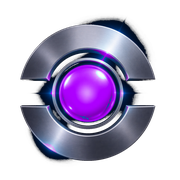
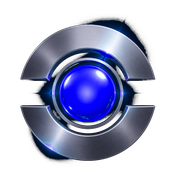
Apply the blue-violet layout across every page.

diff --git a/src/routes/index.tsx b/src/routes/index.tsx
@@ -8,213 +8,130 @@ export const Route = createFileRoute("/")({
   head: () => ({
     meta: [
       { title: "EXIOR | Enterprise Transformation Plan — $499" },
-      {
-        name: "description",
-        content:
-          "A personalized enterprise transformation plan, target architecture, implementation roadmap and EXIOR Space. $499. Delivered in 14 days after complete intake. Technical deployment is separate.",
-      },
+      { name: "description", content: "A personalized enterprise transformation plan, target architecture, implementation roadmap and EXIOR Space. $499. Delivered in 14 days after complete intake." },
     ],
   }),
   component: Home,
 });
 
-const LAYERS = [
-  { id: "org", name: "Organization", line: "Define who owns each capability, decision, and handoff.", detail: "Target functions, accountabilities, interfaces and decision cadence.", ex: "Meridian: Commercial owns the quote. Production owns the schedule." },
-  { id: "proc", name: "Processes", line: "Redesign how work flows from demand to delivery.", detail: "Inputs, exceptions, bottlenecks, rules and target workflows.", ex: "Meridian: capacity is checked before a delivery date is promised." },
-  { id: "data", name: "Data", line: "Give critical business information a reliable structure.", detail: "Authoritative sources, business objects, ownership and data flows.", ex: "Meridian: one owner each for order, stock and price." },
-  { id: "sys", name: "Systems", line: "Connect the technology your operations depend on.", detail: "Applications to retain, integrate, modernize or retire.", ex: "Meridian: CRM, ERP, warehouse and ledger stay. The missing piece is a capacity signal." },
-  { id: "ai", name: "AI Agents", line: "Specify intelligent capabilities where they make operational sense.", detail: "Selected use cases, authorized tools, verification and human approval.", ex: "Meridian: a quote-draft agent reads. A person sets the price." },
-  { id: "sec", name: "Security", line: "Build control and traceability into the design.", detail: "Permissions, residency requirements, activity logs and intervention rules.", ex: "Meridian: least privilege, a log, a stop, and a named place for the data." },
-] as const;
+const ICONS = [
+  { name: "SAP", src: "/logos/sap.svg" },
+  { name: "Salesforce", src: "/logos/salesforce.svg" },
+  { name: "HubSpot", src: "/logos/hubspot.svg" },
+  { name: "n8n", src: "/logos/n8n.svg" },
+  { name: "MCP", src: "/logos/mcp.svg" },
+];
 
-const INCLUDED = ["Enterprise analysis", "Target architecture", "Process priorities", "Agent specifications", "Security requirements", "Prioritized roadmap", "Personalized EXIOR Space"];
-const SEPARATE = ["Software development", "System integration", "Data migration", "Live agent deployment", "Ongoing operations", "Certification or legal advice"];
+const CASES = [
+  { img: "/visuals/case-finance.jpg", title: "Finance", text: "Name the owner of cash. Invoice follows the released shipment, not a quote that may not match." },
+  { img: "/visuals/case-ops.jpg", title: "Operations", text: "Capacity is checked before a date is promised. Production is the 11-day constraint." },
+  { img: "/visuals/case-sales.jpg", title: "Sales", text: "The quote is drafted from named sources. A person still sets the price and the lead time." },
+  { img: "/visuals/case-direction.jpg", title: "Leadership", text: "One architecture for organization, process, data, systems and agents. You decide what to execute." },
+];
 
 function Home() {
-  const [layer, setLayer] = useState(4);
-  const [side, setSide] = useState<"current" | "target">("current");
-  const L = LAYERS[layer];
-
+  const [open, setOpen] = useState(0);
   return (
     <Shell>
       <main>
-        <section className="mx-auto grid max-w-6xl items-start gap-8 px-5 pb-12 pt-8 lg:grid-cols-[0.84fr_1.16fr] lg:pt-10">
+        <section className="mx-auto grid max-w-6xl items-center gap-10 px-5 py-16 lg:grid-cols-[1.05fr_0.95fr] lg:py-24">
           <div>
             <p className="text-[11px] uppercase tracking-[0.18em] text-muted">EXIOR / ENTERPRISE TRANSFORMATION</p>
-            <h1 className="mt-3 text-[2rem] font-medium leading-[1.05] tracking-[-0.045em] md:text-5xl">Transform your enterprise. Start with the blueprint.</h1>
-            <p className="mt-4 max-w-xl text-base leading-relaxed text-muted md:text-lg">
-              EXIOR designs the next version of your business — its organization, processes, systems, data, and AI capabilities — as one connected architecture. Get a personalized plan showing exactly what to change, how it fits together, and where to begin.
-            </p>
+            <h1 className="mt-4 text-4xl font-medium leading-[1.02] tracking-[-0.045em] md:text-6xl">Transform your enterprise. Start with the blueprint.</h1>
+            <p className="mt-5 max-w-xl text-lg leading-relaxed text-muted">EXIOR designs the next version of your business — its organization, processes, systems, data, and AI capabilities — as one connected architecture.</p>
             <p className="mt-4 text-sm">$499 · Personalized plan · Delivered in 14 days after complete intake</p>
-            <div className="mt-4 flex flex-col gap-3 sm:flex-row">
-              <Link to="/offre" className="inline-flex items-center justify-center rounded-full bg-accent-fill px-5 py-3 text-sm text-accent-ink">
-                Get My Transformation Plan — $499
-              </Link>
-              <a href="#espace" className="inline-flex items-center justify-center rounded-full border border-line px-5 py-3 text-sm text-muted">
-                Explore a Sample Blueprint
-              </a>
+            <div className="mt-6 flex flex-col gap-3 sm:flex-row">
+              <Link to="/offre" className="inline-flex items-center justify-center rounded-full bg-accent-fill px-5 py-3 text-sm font-medium text-white">Get My Transformation Plan — $499</Link>
+              <a href="#espace" className="inline-flex items-center justify-center rounded-full border border-line px-5 py-3 text-sm text-muted">Explore a Sample Blueprint</a>
             </div>
-            <p className="mt-3 text-xs text-faint">Business analysis · Target architecture · Prioritized roadmap · EXIOR Space</p>
+            <p className="mt-4 text-xs text-faint">Confidential · Built around your business · The plan is designed. The systems are not deployed for $499.</p>
           </div>
-          <figure>
-            <div className="overflow-hidden rounded-2xl border border-line bg-white">
-              <img src="/visuals/schema-before-after.jpg" alt="Current process versus target process. The quote waits on capacity. A person sets price and date." className="w-full object-contain" />
+          <img src="/visuals/hero-exec.jpg" alt="A conversation about the operating model" className="aspect-[4/3] w-full rounded-3xl object-cover" />
+        </section>
+
+        <section className="border-y border-line">
+          <div className="mx-auto grid max-w-6xl items-center gap-8 px-5 py-16 lg:grid-cols-[1.15fr_0.85fr]">
+            <img src="/visuals/laptop.jpg" alt="EXIOR Space on a laptop" className="w-full rounded-3xl object-cover" />
+            <div className="rounded-3xl border border-line bg-bg-2 p-6">
+              <h2 className="text-3xl font-medium tracking-tight">See the plan before you buy the build.</h2>
+              <p className="mt-3 text-muted">Map, architecture, roadmap and the decisions still open. Meridian is an illustrative example, not a client.</p>
+              <ul className="mt-6 divide-y divide-line border-y border-line text-sm">
+                {["Enterprise analysis", "Target architecture", "Agent specifications", "Prioritized roadmap"].map((t) => (
+                  <li key={t} className="py-3">{t}</li>
+                ))}
+              </ul>
+              <Link to="/offre" className="mt-6 inline-flex rounded-full bg-accent-fill px-5 py-3 text-sm font-medium text-white">Get My Transformation Plan — $499</Link>
             </div>
-            <p className="mt-2 text-xs text-faint">Meridian — Illustrative Example. Production is the 11-day constraint.</p>
-          </figure>
+          </div>
+          <div className="mx-auto grid max-w-6xl gap-6 px-5 pb-16 md:grid-cols-3">
+            {[["Understand", "How the company actually runs."], ["Specify", "Who owns the decision, and what an agent may not do."], ["Sequence", "What changes first, and what waits."]].map(([t, d]) => (
+              <article key={t} className="border-t border-line pt-5">
+                <h3 className="text-lg">{t}</h3>
+                <p className="mt-2 text-sm text-muted">{d}</p>
+              </article>
+            ))}
+          </div>
+        </section>
+
+        <section className="mx-auto max-w-6xl px-5 py-16">
+          <div className="rounded-3xl bg-[linear-gradient(135deg,#f3d7c4,#e7d4f2_55%,#c9d4ff)] px-6 py-10">
+            <div className="flex flex-wrap items-center justify-center gap-4">
+              {ICONS.map((icon) => (
+                <span key={icon.name} className="grid size-14 place-items-center rounded-full bg-white shadow-sm">
+                  <img src={icon.src} alt={icon.name} className="h-6 w-8 object-contain" style={{ filter: "invert(0)" }} />
+                </span>
+              ))}
+            </div>
+            <p className="mt-6 text-center text-sm text-[#1c1c1c]">Named systems a plan can specify. Not partnerships. Not deployed for $499.</p>
+          </div>
         </section>
 
         <section className="border-y border-line">
           <div className="mx-auto max-w-6xl px-5 py-16 md:py-24">
-            <p className="text-[11px] uppercase tracking-[0.18em] text-muted">THE COST OF DISCONNECTED DECISIONS</p>
-            <h2 className="mt-3 max-w-3xl text-3xl font-medium tracking-[-0.03em] md:text-5xl">Every new tool changes the business around it.</h2>
-            <p className="mt-5 max-w-2xl text-lg leading-relaxed text-muted">
-              A new platform affects how people work. A new automation changes a process. An AI agent relies on data, permissions, and decisions that may not be ready. When these changes happen independently, complexity grows faster than the business becomes stronger.
-            </p>
-            <p className="mt-3 text-sm">The advantage comes from designing how everything works together.</p>
-            <figure className="mt-8 overflow-hidden rounded-2xl border border-line bg-white">
-              <img src="/visuals/schema-process.jpg" alt="Inputs, process and outputs. Capacity is checked before the quote. A person sets price and date." className="w-full object-contain" />
-            </figure>
-            <div className="mt-6 flex gap-2 md:hidden">
-              <button type="button" onClick={() => setSide("current")} className={side === "current" ? "rounded-full border border-accent-fill px-3 py-1 text-sm" : "rounded-full border border-line px-3 py-1 text-sm text-muted"}>Current</button>
-              <button type="button" onClick={() => setSide("target")} className={side === "target" ? "rounded-full border border-accent-fill px-3 py-1 text-sm" : "rounded-full border border-line px-3 py-1 text-sm text-muted"}>Target</button>
-            </div>
-            <div className="mt-6 grid gap-px bg-line md:grid-cols-2">
-              <article className={side === "target" ? "hidden bg-bg p-6 md:block" : "bg-bg p-6"}>
-                <p className="text-[11px] uppercase tracking-[0.16em] text-faint">Current enterprise</p>
-                <h3 className="mt-3 text-xl">Disconnected operations. Delayed decisions.</h3>
-                <ul className="mt-4 space-y-2 text-sm text-muted">
-                  <li>Customer promises made before capacity is visible.</li>
-                  <li>Critical data distributed across systems.</li>
-                  <li>Manual handoffs slow execution.</li>
-                </ul>
-                <p className="mt-4 text-xs text-faint">Today: fragmented responsibilities, late signals, manual handoffs.</p>
-              </article>
-              <article className={side === "current" ? "hidden bg-bg p-6 md:block" : "bg-bg p-6"}>
-                <p className="text-[11px] uppercase tracking-[0.16em] text-faint">Target architecture</p>
-                <h3 className="mt-3 text-xl">Connected information. Clear decision rights.</h3>
-                <ul className="mt-4 space-y-2 text-sm text-muted">
-                  <li>Capacity informs customer commitments.</li>
-                  <li>Business objects have defined owners and sources.</li>
-                  <li>People, systems and agents operate within shared rules.</li>
-                </ul>
-                <p className="mt-4 text-xs text-faint">Target: shared processes, clear ownership, governed intelligence.</p>
-              </article>
-            </div>
-            <p className="mt-4 text-xs text-faint">Illustrative operating model: Meridian</p>
-            <a href="#architecture" className="mt-4 inline-flex text-sm">See the target architecture</a>
-          </div>
-        </section>
-
-        <section id="architecture" className="border-b border-line">
-          <div className="mx-auto grid max-w-6xl gap-10 px-5 py-16 md:grid-cols-[0.36fr_0.64fr] md:py-24">
-            <div>
-              <p className="text-[11px] uppercase tracking-[0.18em] text-muted">FROM STRATEGY TO EXECUTION</p>
-              <h2 className="mt-3 text-3xl font-medium tracking-[-0.03em] md:text-4xl">Design the whole enterprise, not isolated improvements.</h2>
-              <p className="mt-5 leading-relaxed text-muted">
-                Your future operating model, processes, information, applications, AI agents, and controls are interdependent. EXIOR defines the relationships so each planned change strengthens the architecture rather than creating another exception.
-              </p>
-              <ul className="mt-6 space-y-2">
-                {LAYERS.map((l, i) => (
-                  <li key={l.id}>
-                    <button type="button" onClick={() => setLayer(i)} className={i === layer ? "w-full rounded-xl border border-accent-fill px-3 py-2 text-left text-sm" : "w-full rounded-xl border border-line px-3 py-2 text-left text-sm text-muted"}>
-                      0{i + 1} {l.name}
-                    </button>
-                  </li>
-                ))}
-              </ul>
-              <p className="mt-5 text-sm">Know what stays. What connects. What changes first.</p>
-              <Link to="/method" className="mt-4 inline-flex text-sm">Explore How It Works</Link>
-            </div>
-            <div className="rounded-2xl border border-line bg-bg-2 p-4 md:p-6">
-              <FlowBoard />
-              <p className="mt-4 text-xs text-faint">0{layer + 1} · Meridian — Illustrative Example</p>
-              <h3 className="mt-2 text-2xl">{L.name}</h3>
-              <p className="mt-4 text-lg">{L.line}</p>
-              <p className="mt-3 text-muted">{L.detail}</p>
-              <p className="mt-4 text-sm">{L.ex}</p>
-              {L.id === "ai" ? <div className="mt-6"><QuoteHarness /></div> : null}
-            </div>
+            <h2 className="max-w-3xl text-4xl font-medium tracking-[-0.04em] md:text-5xl">One architecture for each part of the business.</h2>
+            <ul className="mt-10 divide-y divide-line">
+              {CASES.map((c, i) => (
+                <li key={c.title}>
+                  <button type="button" onClick={() => setOpen(i)} className="grid w-full items-center gap-6 py-6 text-left md:grid-cols-[16rem_1fr_auto]">
+                    <img src={c.img} alt="" className="aspect-[16/9] w-full rounded-2xl object-cover" />
+                    <div>
+                      <h3 className="text-2xl">{c.title}</h3>
+                      <p className="mt-2 text-muted">{c.text}</p>
+                    </div>
+                    <span className="text-accent-fill">→</span>
+                  </button>
+                </li>
+              ))}
+            </ul>
           </div>
         </section>
 
         <section id="espace" className="border-b border-line">
           <div className="mx-auto max-w-6xl px-5 py-16 md:py-24">
-            <p className="text-[11px] uppercase tracking-[0.18em] text-muted">YOUR EXIOR SPACE</p>
-            <h2 className="mt-3 max-w-3xl text-3xl font-medium tracking-[-0.03em] md:text-5xl">See the entire transformation. Understand every decision.</h2>
-            <p className="mt-5 max-w-2xl text-muted">Your EXIOR Space brings the enterprise map, target architecture, implementation priorities and open decisions together.</p>
-            <figure className="mt-8 overflow-hidden rounded-2xl border border-line bg-white">
-              <img src="/visuals/schema-agent.jpg" alt="Quote draft agent: reader, drafter, human approver. May read. Draft only. May not set price or release a shipment." className="w-full object-contain" />
-            </figure>
-            <div className="mt-8">
-              <SpaceStage />
-            </div>
+            <h2 className="max-w-3xl text-4xl font-medium tracking-[-0.04em]">See the entire transformation. Understand every decision.</h2>
+            <div className="mt-8"><FlowBoard /></div>
+            <div className="mt-8"><SpaceStage /></div>
+            <div className="mt-8"><QuoteHarness /></div>
           </div>
         </section>
 
-        <section id="deliverables" className="border-b border-line">
-          <div className="mx-auto max-w-6xl px-5 py-16 md:py-24">
-            <p className="text-[11px] uppercase tracking-[0.18em] text-muted">SEE WHAT YOU'RE BUYING</p>
-            <h2 className="mt-3 max-w-3xl text-3xl font-medium tracking-[-0.03em] md:text-5xl">Your company's future architecture. Made visible.</h2>
-            <div className="mt-8 grid gap-3 md:grid-cols-12">
-              <article className="rounded-2xl border border-line p-5 md:col-span-7">
-                <h3 className="text-lg">Enterprise analysis</h3>
-                <p className="mt-2 text-sm text-muted">How the company actually runs. Meridian — Illustrative Example: quotes leave before capacity is known.</p>
-              </article>
-              <article className="rounded-2xl border border-line p-5 md:col-span-5">
-                <h3 className="text-lg">Target architecture</h3>
-                <p className="mt-2 text-sm text-muted">Organization, processes, data, systems and AI in one design.</p>
-              </article>
-              <article className="rounded-2xl border border-line p-5 md:col-span-4"><h3>Process priorities</h3><p className="mt-2 text-sm text-muted">The 11-day scheduling constraint, before any new platform.</p></article>
-              <article className="rounded-2xl border border-line p-5 md:col-span-4"><h3>Data ownership</h3><p className="mt-2 text-sm text-muted">One source for order, stock, price and cash.</p></article>
-              <article className="rounded-2xl border border-line p-5 md:col-span-4"><h3>Roadmap</h3><p className="mt-2 text-sm text-muted">Foundation, connect, govern, then a human gate before any pilot.</p></article>
-              <article className="rounded-2xl border border-line p-5 md:col-span-7">
-                <h3 className="text-lg">Agent specifications</h3>
-                <div className="mt-4"><QuoteHarness compact /></div>
-              </article>
-              <article className="rounded-2xl border border-line p-5 md:col-span-5">
-                <h3 className="text-lg">Security requirements</h3>
-                <p className="mt-2 text-sm text-muted">Least privilege, residency, an activity log, and a stop if the agent tries to write.</p>
-                <h3 className="mt-6 text-lg">EXIOR Space</h3>
-                <p className="mt-2 text-sm text-muted">The plan, in one place your team can reopen.</p>
-              </article>
-            </div>
-          </div>
-        </section>
-
-        <section id="pricing" className="border-b border-line">
-          <div className="mx-auto grid max-w-6xl items-start gap-10 px-5 py-16 md:grid-cols-[1fr_0.9fr] md:py-24">
+        <section className="border-b border-line">
+          <div className="mx-auto grid max-w-6xl items-center gap-10 px-5 py-16 md:grid-cols-[1fr_0.8fr] md:py-24">
             <div>
               <p className="text-[11px] uppercase tracking-[0.18em] text-muted">THE PLAN</p>
-              <h2 className="mt-3 text-3xl font-medium tracking-[-0.03em] md:text-5xl">One plan. One price. A clear next step.</h2>
-              <div className="mt-8 grid gap-6 sm:grid-cols-2">
-                <div>
-                  <p className="text-xs uppercase tracking-widest text-faint">Included</p>
-                  <ul className="mt-3 space-y-2 text-sm">{INCLUDED.map((t) => <li key={t}>{t}</li>)}</ul>
-                </div>
-                <div>
-                  <p className="text-xs uppercase tracking-widest text-faint">Separate</p>
-                  <ul className="mt-3 space-y-2 text-sm text-muted">{SEPARATE.map((t) => <li key={t}>{t}</li>)}</ul>
-                </div>
-              </div>
-            </div>
-            <div className="rounded-2xl border border-line bg-bg-2 p-6">
-              <p className="text-5xl font-medium tracking-tight">$499</p>
-              <p className="mt-2 text-sm text-muted">One-time · Delivered in 14 days after your complete dossier</p>
-              <Link to="/offre" className="mt-6 inline-flex rounded-full bg-accent-fill px-5 py-3 text-sm text-accent-ink">
-                Get My Transformation Plan — $499
-              </Link>
+              <h2 className="mt-3 text-4xl font-medium tracking-tight">One plan. One price.</h2>
+              <p className="mt-4 text-5xl font-medium">$499</p>
+              <p className="mt-2 text-muted">One-time · Delivered in 14 days after your complete dossier</p>
+              <Link to="/offre" className="mt-6 inline-flex rounded-full bg-accent-fill px-5 py-3 text-sm font-medium text-white">Get My Transformation Plan — $499</Link>
               <p className="mt-4 text-sm">The plan is designed. The systems are not deployed for $499.</p>
             </div>
+            <img src="/visuals/office.jpg" alt="A room for the decision" className="aspect-[16/10] w-full rounded-3xl object-cover" />
           </div>
         </section>
 
-        <section className="mx-auto max-w-3xl px-5 py-24 text-center md:py-32">
-          <h2 className="text-4xl font-medium tracking-[-0.04em] md:text-5xl">Start with the architecture that connects the decisions, systems, and capabilities behind your transformation.</h2>
-          <Link to="/offre" className="mt-8 inline-flex rounded-full bg-accent-fill px-5 py-3 text-sm text-accent-ink">
-            Get My Transformation Plan — $499
-          </Link>
-          <p className="mt-4 text-sm text-muted">Your plan. Your priorities. Your decision.</p>
+        <section className="mx-auto max-w-3xl px-5 py-24 text-center">
+          <h2 className="text-4xl font-medium tracking-[-0.04em]">Start with the architecture that connects the decisions.</h2>
+          <Link to="/offre" className="mt-8 inline-flex rounded-full bg-accent-fill px-5 py-3 text-sm font-medium text-white">Get My Transformation Plan — $499</Link>
         </section>
       </main>
     </Shell>

diff --git a/src/routes/method.tsx b/src/routes/method.tsx
@@ -35,23 +35,16 @@ function Method() {
   return (
     <Shell>
       <main>
-        <section className="mx-auto grid max-w-6xl items-end gap-10 px-5 py-16 md:grid-cols-[1.4fr_0.6fr] md:py-24">
+        <section className="mx-auto grid max-w-6xl items-center gap-10 px-5 py-16 md:grid-cols-[1.1fr_0.9fr] md:py-24">
           <div>
             <p className="text-[11px] uppercase tracking-[0.18em] text-muted">THE EXIOR METHOD</p>
             <h1 className="mt-4 text-4xl font-medium tracking-[-0.04em] md:text-6xl">A rigorous method. A blueprint built around your business.</h1>
             <p className="mt-5 max-w-2xl text-lg leading-relaxed text-muted">
-              The most consequential transformation decisions happen before implementation. EXIOR connects business analysis, organizational design, systems architecture, and AI planning into one structured engagement — so every initiative has a purpose, a dependency, and a defined place in your future enterprise.
+              The most consequential transformation decisions happen before implementation. EXIOR connects business analysis, organizational design, systems architecture, and AI planning into one structured engagement.
             </p>
-            <p className="mt-4 text-sm">An actual business dossier. An integrated target architecture. A prioritized execution roadmap.</p>
-            <Link to="/offre" className="mt-6 inline-flex rounded-full bg-accent-fill px-5 py-3 text-sm text-accent-ink">Get My Transformation Plan — $499</Link>
-            <p className="mt-3 text-xs text-faint">Delivered in 14 days after your complete dossier is received.</p>
+            <Link to="/offre" className="mt-6 inline-flex rounded-full bg-accent-fill px-5 py-3 text-sm font-medium text-white">Get My Transformation Plan — $499</Link>
           </div>
-          <ol className="divide-y divide-line border-y border-line text-sm">
-            <li className="py-4">1 · Dossier</li>
-            <li className="py-4">2 · Map the break</li>
-            <li className="py-4">3 · Specify the agent boundary</li>
-            <li className="py-4">4 · Sequence the decisions</li>
-          </ol>
+          <img src="/visuals/laptop.jpg" alt="The plan, opened" className="aspect-[4/3] w-full rounded-3xl object-cover" />
         </section>
 
         <section className="border-y border-line">

diff --git a/src/routes/offre.tsx b/src/routes/offre.tsx
@@ -157,18 +157,15 @@ function Offre() {
   return (
     <Shell>
       <main>
-        <section className="mx-auto max-w-6xl px-5 py-16 md:py-20">
-          <Kicker>EXIOR TRANSFORMATION PLAN</Kicker>
-          <h1 className="mt-4 max-w-3xl text-4xl font-medium tracking-[-0.03em] md:text-6xl">
-            Your next enterprise. Designed in 14 days.
-          </h1>
-          <p className="mt-6 max-w-2xl text-lg leading-relaxed text-muted">
-            A personalized transformation plan. $499, once. Delivered in 14 days after the complete dossier. Technical deployment is separate.
-          </p>
-          <p className="mt-6 text-sm">The plan is designed. The systems are not deployed for $499.</p>
-          <a href="#profile" className="mt-6 inline-flex rounded-full bg-accent-fill px-5 py-3 text-sm text-accent-ink">
-            Get My Transformation Plan — $499
-          </a>
+        <section className="mx-auto grid max-w-6xl items-center gap-10 px-5 py-16 md:grid-cols-[1.1fr_0.9fr] md:py-20">
+          <div>
+            <Kicker>EXIOR TRANSFORMATION PLAN</Kicker>
+            <h1 className="mt-4 text-4xl font-medium tracking-[-0.03em] md:text-6xl">Your next enterprise. Designed in 14 days.</h1>
+            <p className="mt-6 max-w-2xl text-lg leading-relaxed text-muted">A personalized transformation plan. $499, once. Delivered in 14 days after the complete dossier. Technical deployment is separate.</p>
+            <p className="mt-6 text-sm">The plan is designed. The systems are not deployed for $499.</p>
+            <a href="#profile" className="mt-6 inline-flex rounded-full bg-accent-fill px-5 py-3 text-sm font-medium text-white">Get My Transformation Plan — $499</a>
+          </div>
+          <img src="/visuals/hero-exec.jpg" alt="" className="aspect-[4/3] w-full rounded-3xl object-cover" />
         </section>
 
         <section className="border-t border-line">

diff --git a/src/routes/resources.tsx b/src/routes/resources.tsx
@@ -58,10 +58,13 @@ function Resources() {
   return (
     <Shell>
       <main>
-        <section className="mx-auto max-w-6xl px-5 py-16 md:py-24">
-          <p className="text-[11px] uppercase tracking-[0.18em] text-muted">RESOURCES</p>
-          <h1 className="mt-4 max-w-3xl text-4xl font-medium tracking-[-0.04em] md:text-6xl">Enterprise transformation demands a wider perspective.</h1>
-          <p className="mt-5 max-w-2xl text-lg text-muted">Economic research, architecture methods, AI standards and security frameworks inform the plan. None of them replace the analysis of your business.</p>
+        <section className="mx-auto grid max-w-6xl items-center gap-10 px-5 py-16 md:grid-cols-[1.1fr_0.9fr] md:py-24">
+          <div>
+            <p className="text-[11px] uppercase tracking-[0.18em] text-muted">RESOURCES</p>
+            <h1 className="mt-4 text-4xl font-medium tracking-[-0.04em] md:text-6xl">Enterprise transformation demands a wider perspective.</h1>
+            <p className="mt-5 max-w-2xl text-lg text-muted">Economic research, architecture methods, AI standards and security frameworks inform the plan. None of them replace the analysis of your business.</p>
+          </div>
+          <img src="/visuals/case-direction.jpg" alt="" className="aspect-[4/3] w-full rounded-3xl object-cover" />
         </section>
 
         <section className="border-y border-line">

diff --git a/src/styles.css b/src/styles.css
@@ -9,8 +9,8 @@
   --color-faint: #5c6168;
   --color-line: #26282c;
   --color-accent: #8b9098;
-  --color-accent-fill: #c44dff;
-  --color-accent-ink: #14061c;
+  --color-accent-fill: #4f5dff;
+  --color-accent-ink: #ffffff;
   --font-sans: "Inter", ui-sans-serif, system-ui, sans-serif;
   --font-serif: "Inter", ui-sans-serif, system-ui, sans-serif;
   --radius-sm: 0.375rem;
